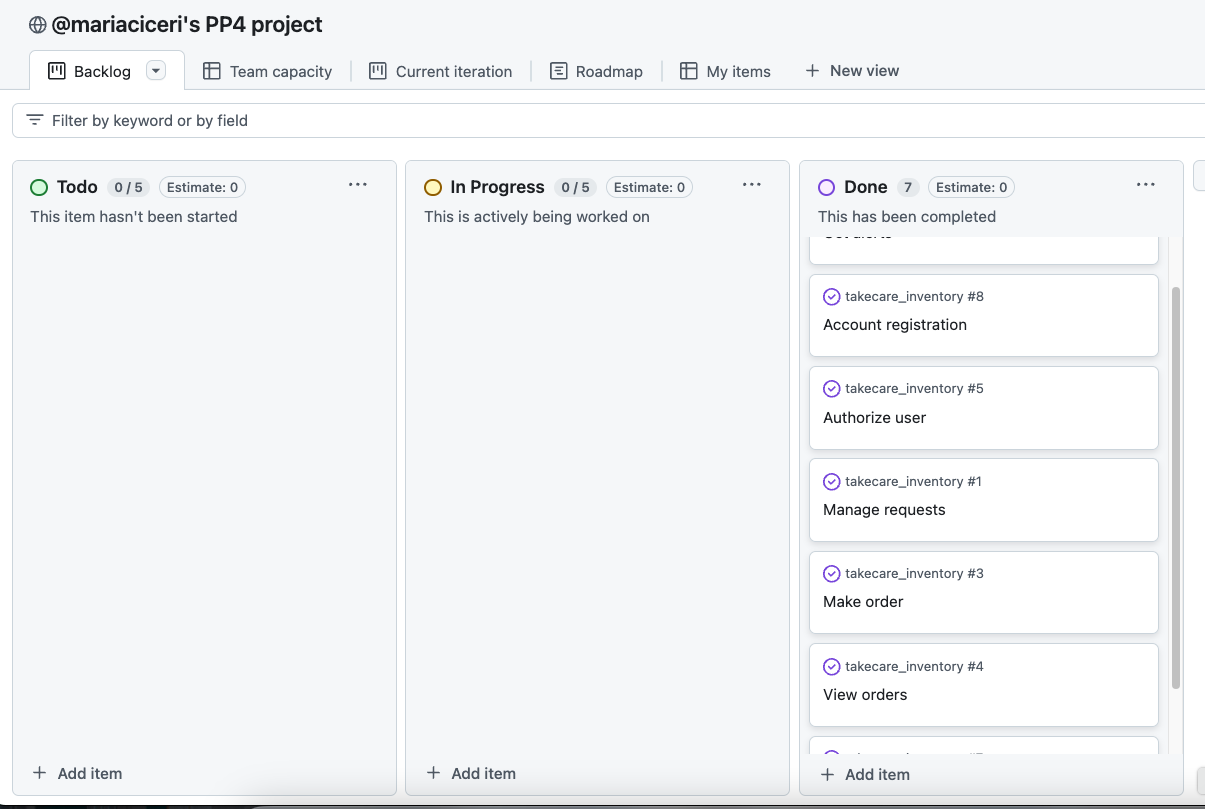
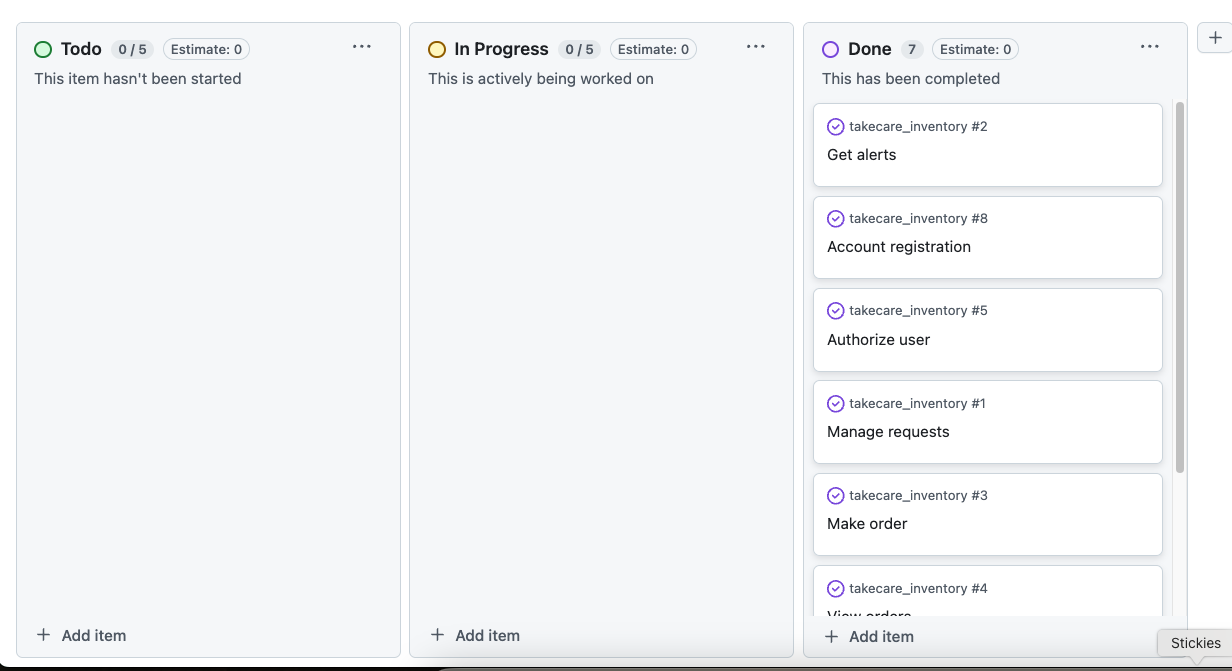
Include more features

diff --git a/README.md b/README.md
@@ -93,12 +93,30 @@ The page is designed for healthcare professionals, including nurses, doctors, an
 ### Home page
 - If the user is unauthenticated:
     - They can login or register by clicking on the links in the navbar.
-- If the user is authenticated:
+
+    ![Landing page nav](/docs/images/not-autenticated-nav.png)
+
+- If the user is authenticated and approved:
     - They can start requesting, view past order or logout by clicking on the links in the navbar.
+
+    ![Home page for authenticated/approved user](/docs/images/authoriozed-view.png)
+
+- If the user is authenticated but not approved:
+    - They will see a message confirming that they registered but are waiting for approval from management.
+
+    ![Home page for authenticated but not approved user](/docs/images/not-authorized-view.png)
 
 ### Admin panel
 - When an admin logs in, an alert message is displayed if there are expired or near-expiry items, low-stock items, or pending user approvals.
+
+![Admin home page alerts](/docs/images/warnings-admin-home.png)
+
 - When approving multiple orders at once, if stock is insufficient for all, older orders will be approved first, while newer ones will stay pending. An alert message will indicate which orders couldn't be fulfilled due to low stock.
+- If the order was already processed, the status can not be modified again.
+
+![Admin order already processed alert](/docs/images/warnings-admin-order-processed.png)
+![Admin approved order alert](/docs/images/warnings-admin-order-approved.png)
+
 - Manager can not add items without expiration date and the expiration date must be in the future.
 - When an order is approved, the items are subtracted from the stock.
 
@@ -108,9 +126,41 @@ The page is designed for healthcare professionals, including nurses, doctors, an
 - Users can edit item quantities in their session, up to the maximum available:
     - If the entered quantity exceeds stock, it is automatically adjusted to the maximum.
     - If the quantity is less than 1, the item is removed from the list.
+
+![Quantity check gif](docs/images/available-in-stock-message.gif)
+![Quantity check screenshot](docs/images/quantity-validation.png)
+
 - If the same item is added again via the form, the quantity updates. If the total exceeds available stock, the item is not added.
 - When the order is submitted, the home page is cleaned and the user can start a new request. If they leave an unsent order, the items in the order won't be lost if the page is closed/reloaded.
+- Feedback is present for all actions:
+    - Adding an item to the order:
+    ![Item added successfully message](docs/images/item-added.png)
+    - Deleting an item from the order:
+    ![Item deleted successfully message](docs/images/item-removed.png)
+    - Editing order:
+    ![Order being edited message](docs/images/editing-warning.png)
+    - Order sent to management:
+    ![Order sent successfully message](docs/images/order-saved.png)
+
+- The user can not submit an empty order.
+
+![Empty order warning](docs/images/no-items-to-order.png)
+
 - In the orders page, the users can see their past orders, items ordered, and statuses and modify the order if it is still pending.
+
+![Past orders page](docs/images/orders-display.png)
+![Past orders expanded](docs/images/orders-buttons.png)
+
+
+- Tooltips are available for the statuses:
+
+![Tooltip for pending order](docs/images/pending-order.png)
+![Tooltip for approved order](docs/images/approved-order.png)
+![Tooltip for rejected order](docs/images/rejected-order.png)
+
+- If deleting a pending order, a popup requesting confirmation is shown, if user clicks "yes", the order is deleted from the database, otherwise, the popup closes.
+
+![Deletion confirmation popup](docs/images/delete-confirmation.png)
 
 ## Technologies
 
@@ -139,7 +189,11 @@ The page is designed for healthcare professionals, including nurses, doctors, an
 ## Agile Development Process
 ### GitHub Projects
 
++ GitHub Projects has been a valuable tool for managing the Agile development process of this project. By using customizable boards, I’ve been able to break down the work into smaller, manageable tasks, which helped me prioritize features, and improvements in an organized manner.
 
+![github issues](/docs/images/github-issues.png)
+
+![kanban](docs/images/kanban.png)
 
 ## Deployment
 
